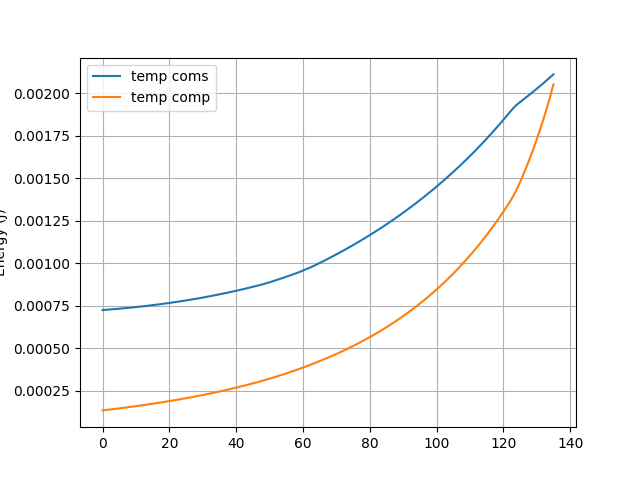
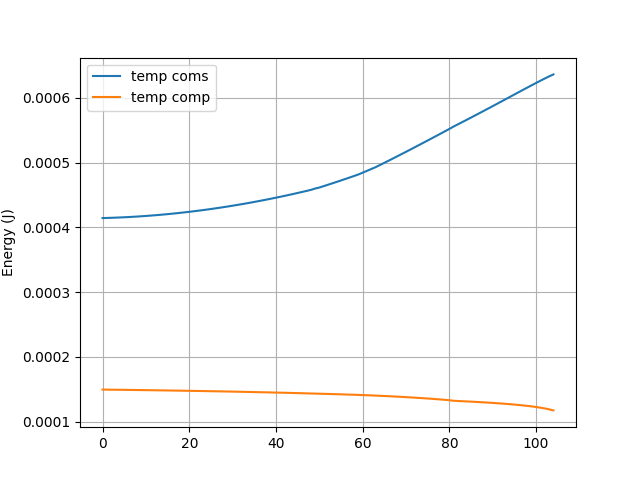
c_n = 0.8*1e4

diff --git a/examples/network_params.py b/examples/network_params.py
@@ -1,8 +1,4 @@
-import math 
-from run_utils import * 
-
 num_users = 10 # number of participating vehicles 
-tau = 80 # total time threshold
 max_uav = 5 # maximum number of vehicles connecting to uav 
 
 # Local computation params 
@@ -11,21 +7,13 @@ delta_lr = 5*1e-3 # TODO Learning rate of local surrogate function
 gamma_cv = 3 # strongly convex constant of the loss function
 
 k_switch = 1e-28 # switch capacity, depends on chip's architecture 
-C_n = 0.5*1e4 # TODO: testback # number of cpu cycles per sample 
+C_n = 0.8*1e4 # TODO: testback # number of cpu cycles per sample 
 # D_n = 100 # data size, number of samples, varies  
 freq_max = 2 * 1e9 # 2GHz -> Hz, maximum cpu computation frequency 
 
 # Offloading, global aggregation params 
 xi_factor = 1 # global gradient factor 
 epsilon_0 = 1e-3 # global accuracy 
-
-# # for dynamic i scenarios (idx_sce = 2, 4)
-# epsilon_alpha = 1.02 # alpha factor for decreasing the accuracy > 1
-# epsilon_a = 10 # 10 100 1 > 1 n \approx 151 for dynamic, 1 for fixedi
-
-# for fixed i scenarios (idx_sce = 1, 3)
-epsilon_alpha = 1 # alpha factor for decreasing the accuracy > 1
-epsilon_a = 1 # 10 100 1 > 1 n \approx 151 for dynamic, 1 for fixedi
 
 compression_ratio = 0.1 # 1-0.95
 s_n = 100240 # 502400*compression_ratio=25120 bits # data transmission size TODO (784 * 10 + 10) * 2 * 32 = 502400 bits 
@@ -35,7 +23,7 @@ N_0 = 4*1e-15 # -174 dBm?/Hz, noise density, should be multiplied with bw: 1e(-1
 power_max = 0.1 # W TODO  
 
 # base station propagation channel params 
-x_bs, y_bs = -400, 400 # m (250/sqrt(2), cover radius = 500m, at the cell edge)
+x_bs, y_bs = -300, 300 # m (250/sqrt(2), cover radius = 500m, at the cell edge)
 A_d = 3 # attenna gain 
 f_c = 915 * 1e6 # MHz -> Hz, carrier frequency
 c = 3 * 1e8 # speed of light 

diff --git a/examples/plot_comparison.py b/examples/plot_comparison.py
@@ -124,25 +124,25 @@ def plot_tien_bar():
 
     max_round = min(len(t_co_1), len(t_co_2), len(t_co_3), len(t_co_4))
     
-    t_co_1 = t_co_1[:max_round].sum()
-    t_cp_1 = t_cp_1[:max_round].sum()
-    e_co_1 = e_co_1[:max_round].sum()
-    e_cp_1 = e_cp_1[:max_round].sum()
+    t_co_1 = t_co_1.sum()
+    t_cp_1 = t_cp_1.sum()
+    e_co_1 = e_co_1.sum()
+    e_cp_1 = e_cp_1.sum()
 
-    t_co_2 = t_co_2[:max_round].sum()
-    t_cp_2 = t_cp_2[:max_round].sum()
-    e_co_2 = e_co_2[:max_round].sum()
-    e_cp_2 = e_cp_2[:max_round].sum()
+    t_co_2 = t_co_2.sum()
+    t_cp_2 = t_cp_2.sum()
+    e_co_2 = e_co_2.sum()
+    e_cp_2 = e_cp_2.sum()
 
-    t_co_3 = t_co_3[:max_round].sum()
-    t_cp_3 = t_cp_3[:max_round].sum()
-    e_co_3 = e_co_3[:max_round].sum()
-    e_cp_3 = e_cp_3[:max_round].sum()
+    t_co_3 = t_co_3.sum()
+    t_cp_3 = t_cp_3.sum()
+    e_co_3 = e_co_3.sum()
+    e_cp_3 = e_cp_3.sum()
 
-    t_co_4 = t_co_4[:max_round].sum()
-    t_cp_4 = t_cp_4[:max_round].sum()
-    e_co_4 = e_co_4[:max_round].sum()
-    e_cp_4 = e_cp_4[:max_round].sum()
+    t_co_4 = t_co_4.sum()
+    t_cp_4 = t_cp_4.sum()
+    e_co_4 = e_co_4.sum()
+    e_cp_4 = e_cp_4.sum()
     
     N = 3
     ind = np.arange(N) 

diff --git a/examples/network_optim.py b/examples/network_optim.py
@@ -32,8 +32,8 @@ class NetworkOptim:
         self.num_grounds = 0
     
     def set_decay_params(self, sce_idx=4):
-        epsilon_alpha = 1.02 # alpha factor for decreasing the accuracy > 1
-        epsilon_a = 10 # 10 100 1 > 1 n \approx 151 for dynamic, 1 for fixedi
+        epsilon_alpha = 1.05 # alpha factor for decreasing the accuracy > 1
+        epsilon_a = 5 # 10 100 1 > 1 n \approx 151 for dynamic, 1 for fixedi
         if sce_idx == 1 or sce_idx == 3:
             epsilon_alpha = 1 # alpha factor for decreasing the accuracy > 1
             epsilon_a = 1 # 10 100 1 > 1 n \approx 151 for dynamic, 1 for fixedi

diff --git a/examples/system_model.py b/examples/system_model.py
@@ -4,7 +4,6 @@ np.set_printoptions(precision=6, linewidth=np.inf)
 from server_model import BaseFederated 
 from network_optim import NetworkOptim
 from system_utils import * 
-from run_utils import read_options
 
 seed = 1
 rng = np.random.default_rng(seed=seed)
